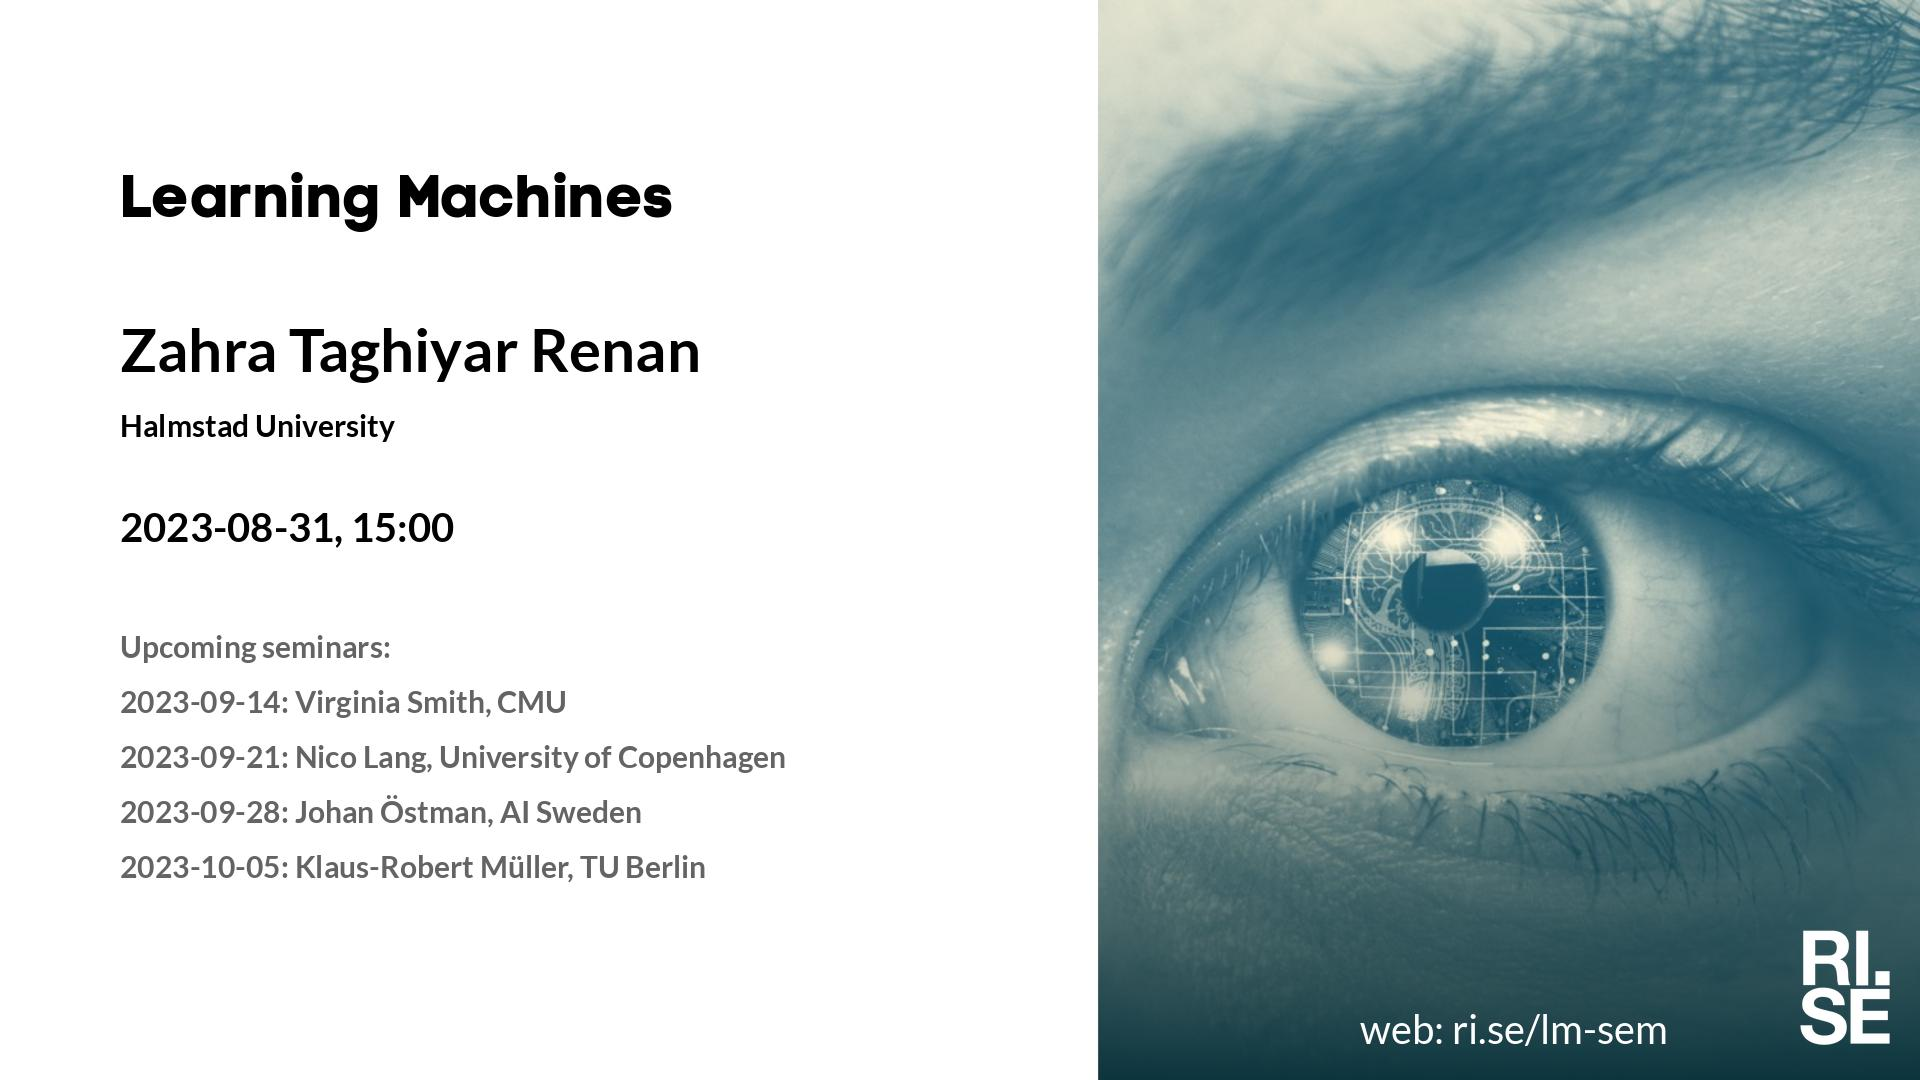
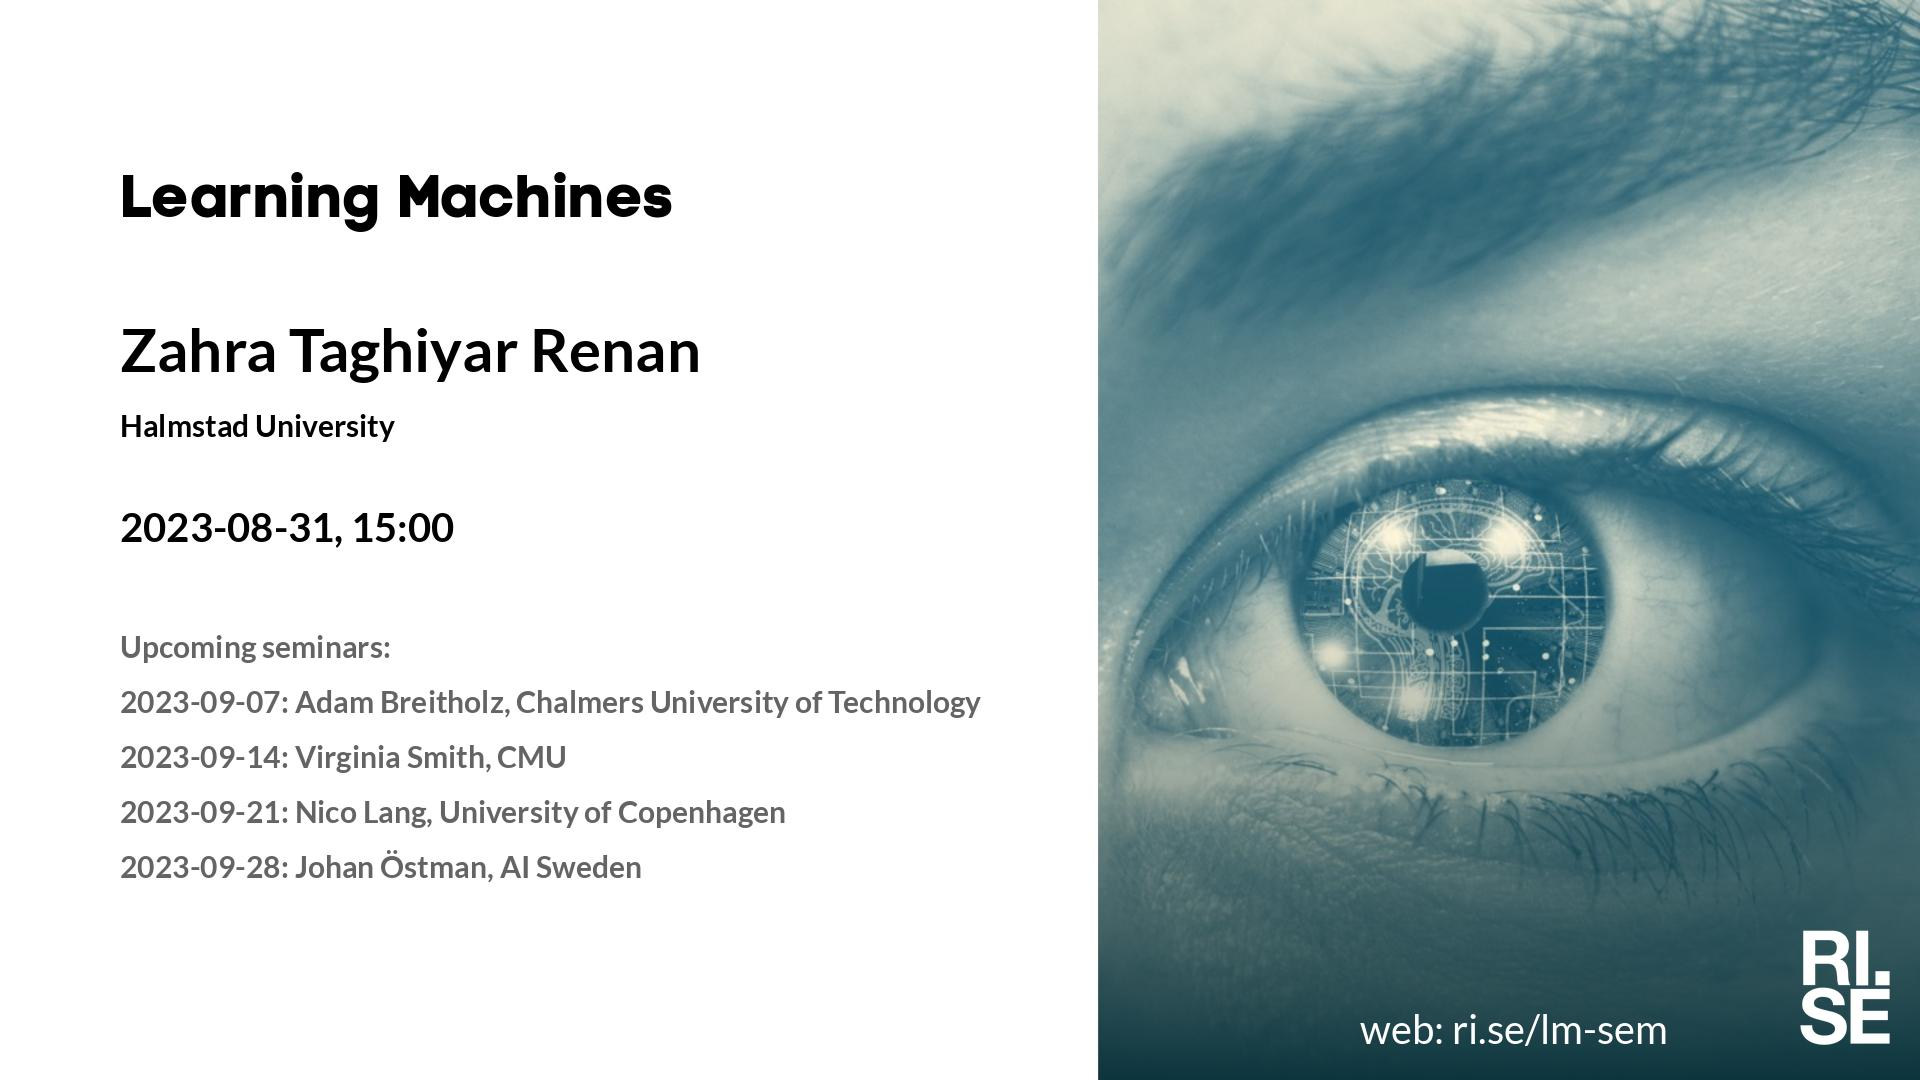
Updated plan on web site.

Changed region(s): [[0.125, 0.6417, 0.5312, 0.7639], [0.0938, 0.7944, 0.375, 0.825]]

diff --git a/lm/index.md b/lm/index.md
@@ -5,12 +5,12 @@ metatags: "<meta name=\"robots\" content=\"noindex,nofollow\" />"
 <style type="text/css" scoped>
 td, th {border: 1px solid #ccc; padding: 0.6em;}
 table {border-collapse: collapse;}
-</style># Learning Machines Plan 2023-07-01
+</style># Learning Machines Plan 2023-08-01
 
 | date | speaker                                   | photo | shareable | meeting backdrop | youtube thumbnail | <a title="Speaker, Title, Abstract, Bio, Photo. Strikethrough means we don't have it yet.">comment</a>        |
 | ---- | ----------------------------------------- | ----- | ----- | ----- | ----- | -------------- |
 |  2023-08-31  |  [Zahra Taghiyar Renan, Halmstad University](2023-08-31.md)  |  [photo](photo-zahra-taghiyar-renan.jpg)  |  [social media ](social-media-zahra-taghiyar-renan.jpg)  |  [meeting backdrop ](meeting-backdrop-zahra-taghiyar-renan.jpg)  |  [youtube thumbnail ](youtube-thumbnail-zahra-taghiyar-renan.jpg)  |  S~~TAB~~P  |
-| <span style="color:grey"> 2023-09-07 </span> | <span style="color:grey"> Adam B. ? </span> | <span style="color:grey">  </span> | <span style="color:grey">  </span> | <span style="color:grey">  </span> | <span style="color:grey">  </span> | <span style="color:grey"> ?~~TABP~~ </span> |
+|  2023-09-07  |  [Adam Breitholz, Chalmers University of Technology](2023-09-07.md)  |    |  [social media ](social-media-adam-breitholz.jpg)  |  [meeting backdrop ](meeting-backdrop-adam-breitholz.jpg)  |  [youtube thumbnail ](youtube-thumbnail-adam-breitholz.jpg)  |  S~~TABP~~  |
 |  2023-09-14  |  [Virginia Smith, CMU](2023-09-14.md)  |  [photo](photo-virginia-smith.jpg)  |  [social media ](social-media-virginia-smith.jpg)  |  [meeting backdrop ](meeting-backdrop-virginia-smith.jpg)  |  [youtube thumbnail ](youtube-thumbnail-virginia-smith.jpg)  |  S~~TAB~~P  |
 |  2023-09-21  |  [Nico Lang, University of Copenhagen](2023-09-21.md)  |  [photo](photo-nico-lang.jpg)  |  [social media ](social-media-nico-lang.jpg)  |  [meeting backdrop ](meeting-backdrop-nico-lang.jpg)  |  [youtube thumbnail ](youtube-thumbnail-nico-lang.jpg)  |  STABP  |
 |  2023-09-28  |  [Johan Östman, AI Sweden](2023-09-28.md)  |    |  [social media ](social-media-johan-ostman.jpg)  |  [meeting backdrop ](meeting-backdrop-johan-ostman.jpg)  |  [youtube thumbnail ](youtube-thumbnail-johan-ostman.jpg)  |  S~~TABP~~  |

diff --git a/lm/2023-09-07.md b/lm/2023-09-07.md
@@ -6,7 +6,7 @@ Welcome to this week's Learning Machines seminar.
 
 **Title:** N/A
 
-**Speaker:** Zahra Taghiyar Renan, Halmstad University
+**Speaker:** Adam Breitholz, Chalmers University of Technology
 
 **Abstract:** N/A
 
@@ -14,14 +14,14 @@ Welcome to this week's Learning Machines seminar.
 
 **Location:** location, or online using Zoom.
 
-**Zoom link:** [https://rise.zoom.us/j/208117140?pwd=SHFHbHY2VXFNSkt6NFF2WkFPQ3VnQT09](https://rise.zoom.us/j/208117140?pwd=SHFHbHY2VXFNSkt6NFF2WkFPQ3VnQT09)
+**Zoom link:** [https://rise.zoom.us/j/208117140?pwd=TlovOWE1KzFJbzk0QW9QV2JEVEordz09](https://rise.zoom.us/j/208117140?pwd=TlovOWE1KzFJbzk0QW9QV2JEVEordz09)
 
 **Upcoming seminars:**
 
-* 2023-09-07: Adam Breitholz, Chalmers University of Technology
 * 2023-09-14: Virginia Smith, CMU
 * 2023-09-21: Nico Lang, University of Copenhagen
 * 2023-09-28: Johan Östman, AI Sweden
+* 2023-10-05: Klaus-Robert Müller, TU Berlin
 
 More information and coming seminars: [https://ri.se/lm-sem](https://ri.se/lm-sem)
 
